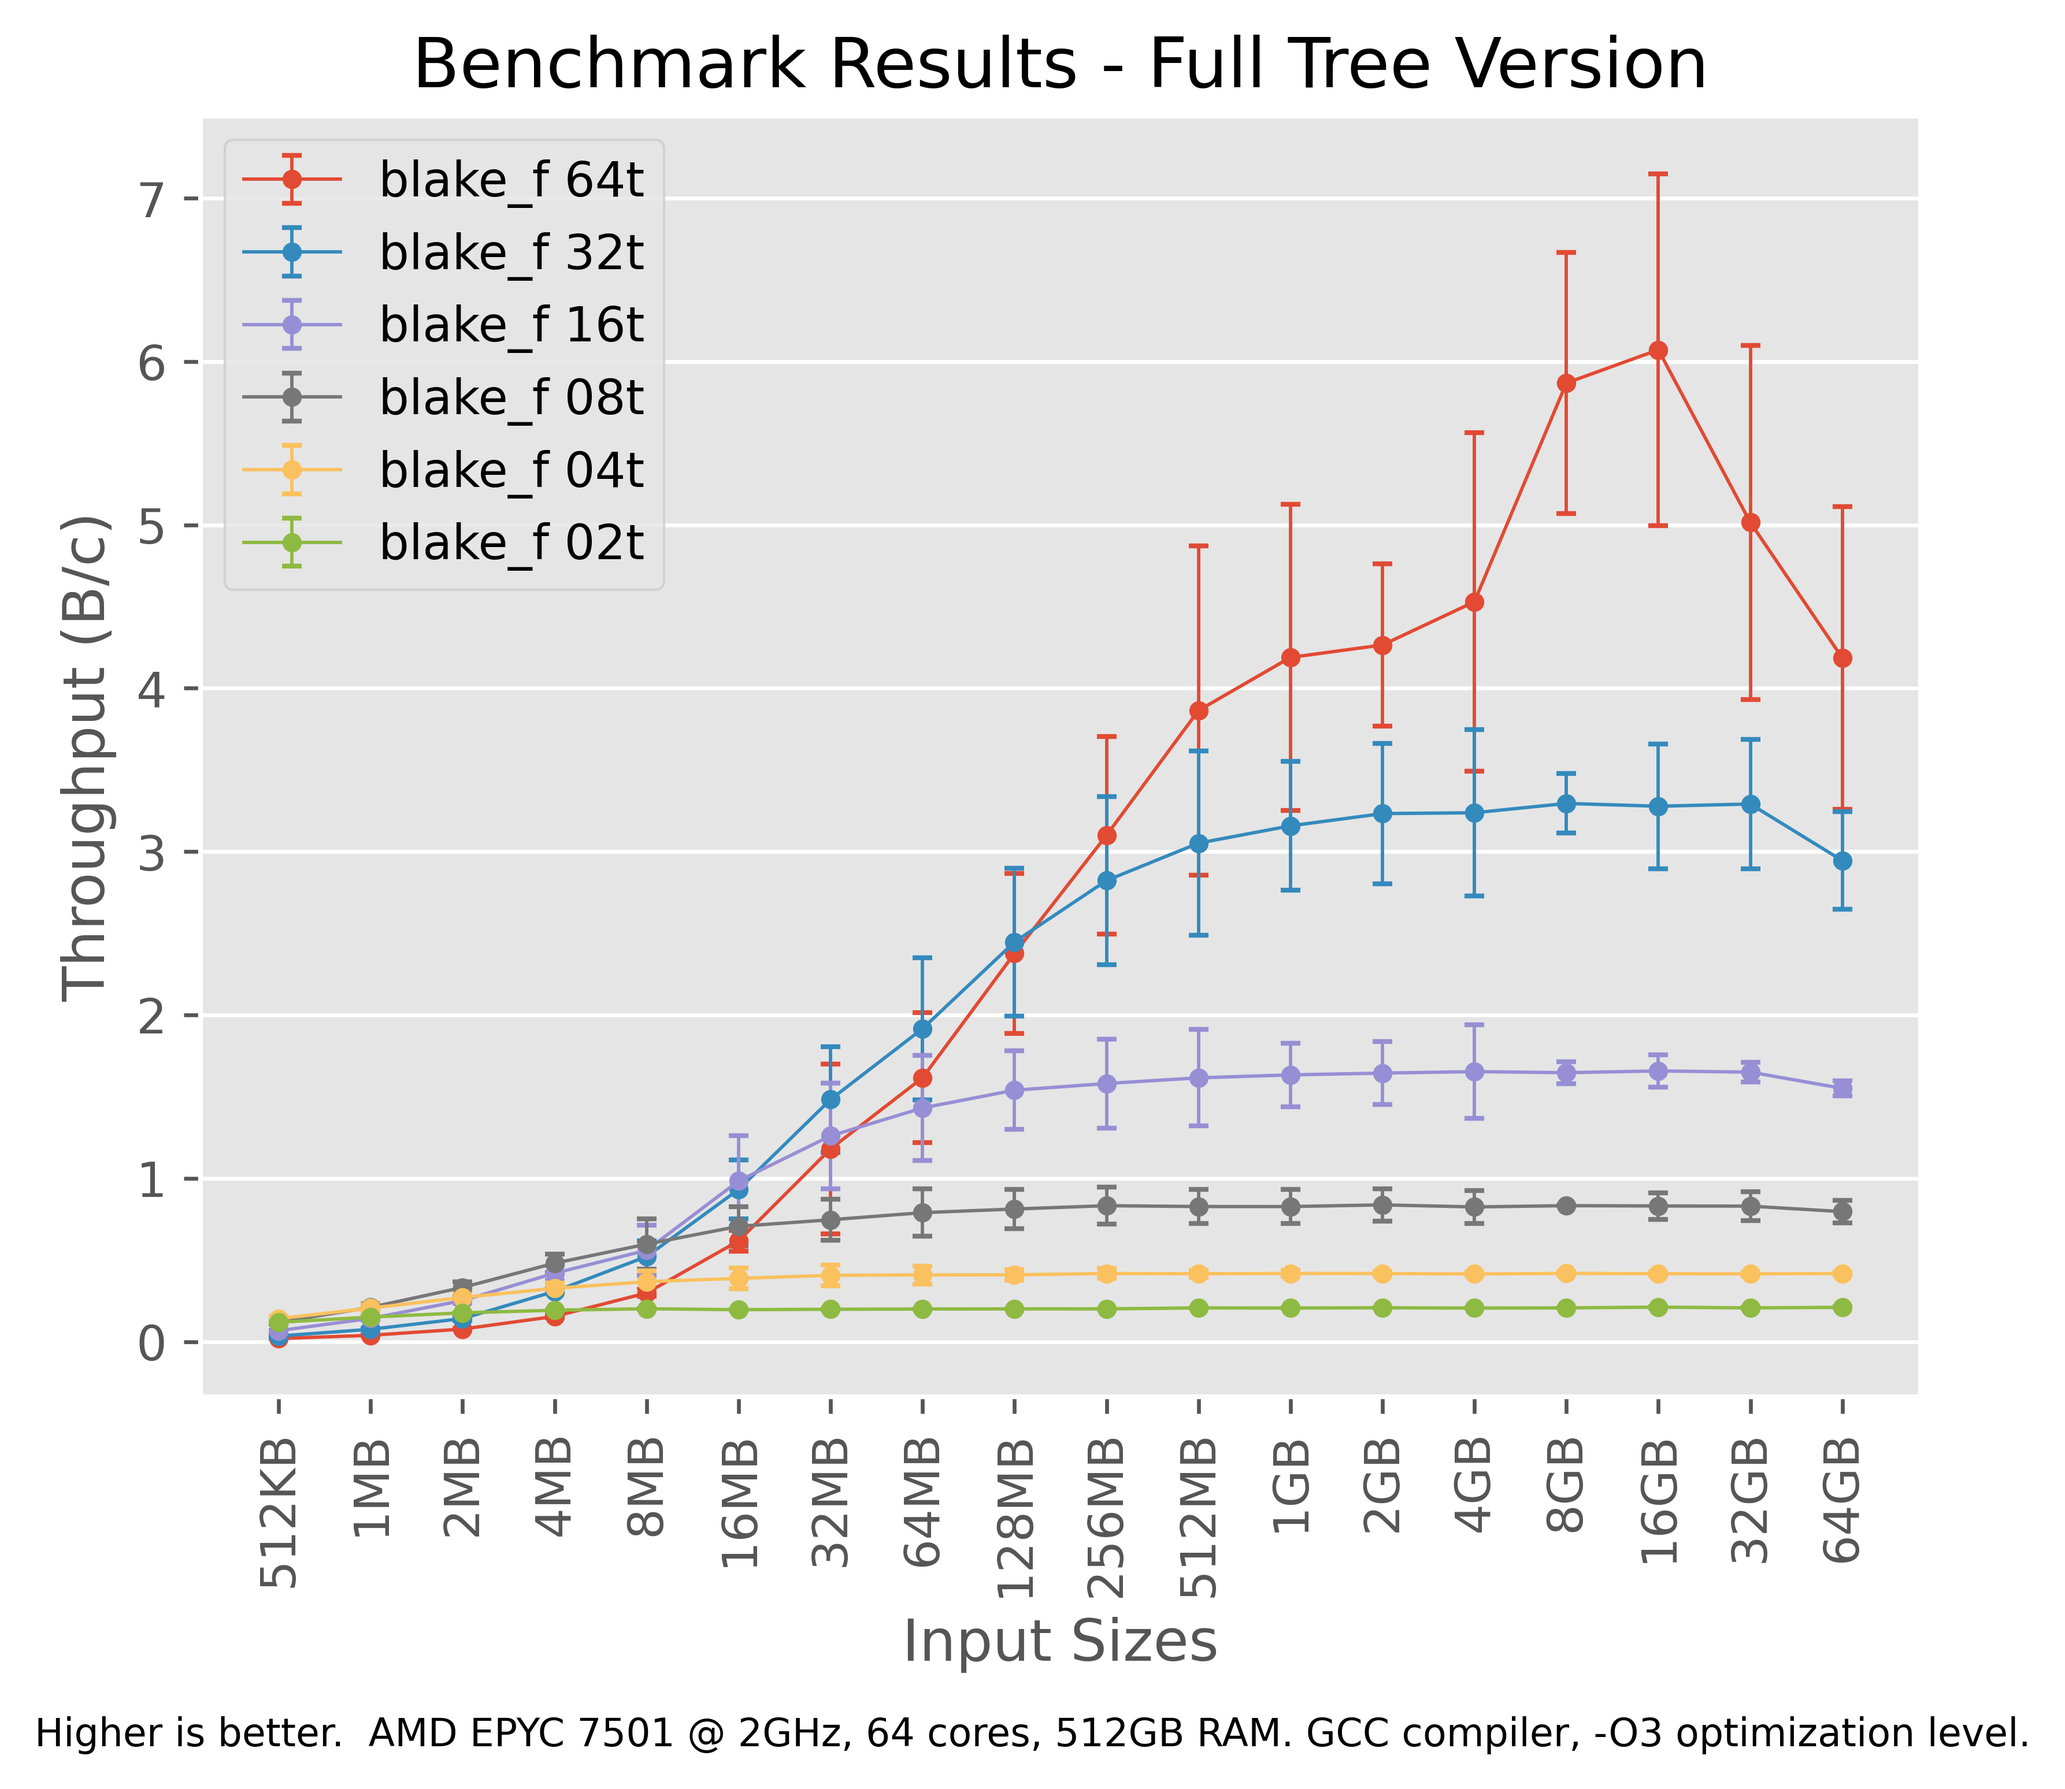
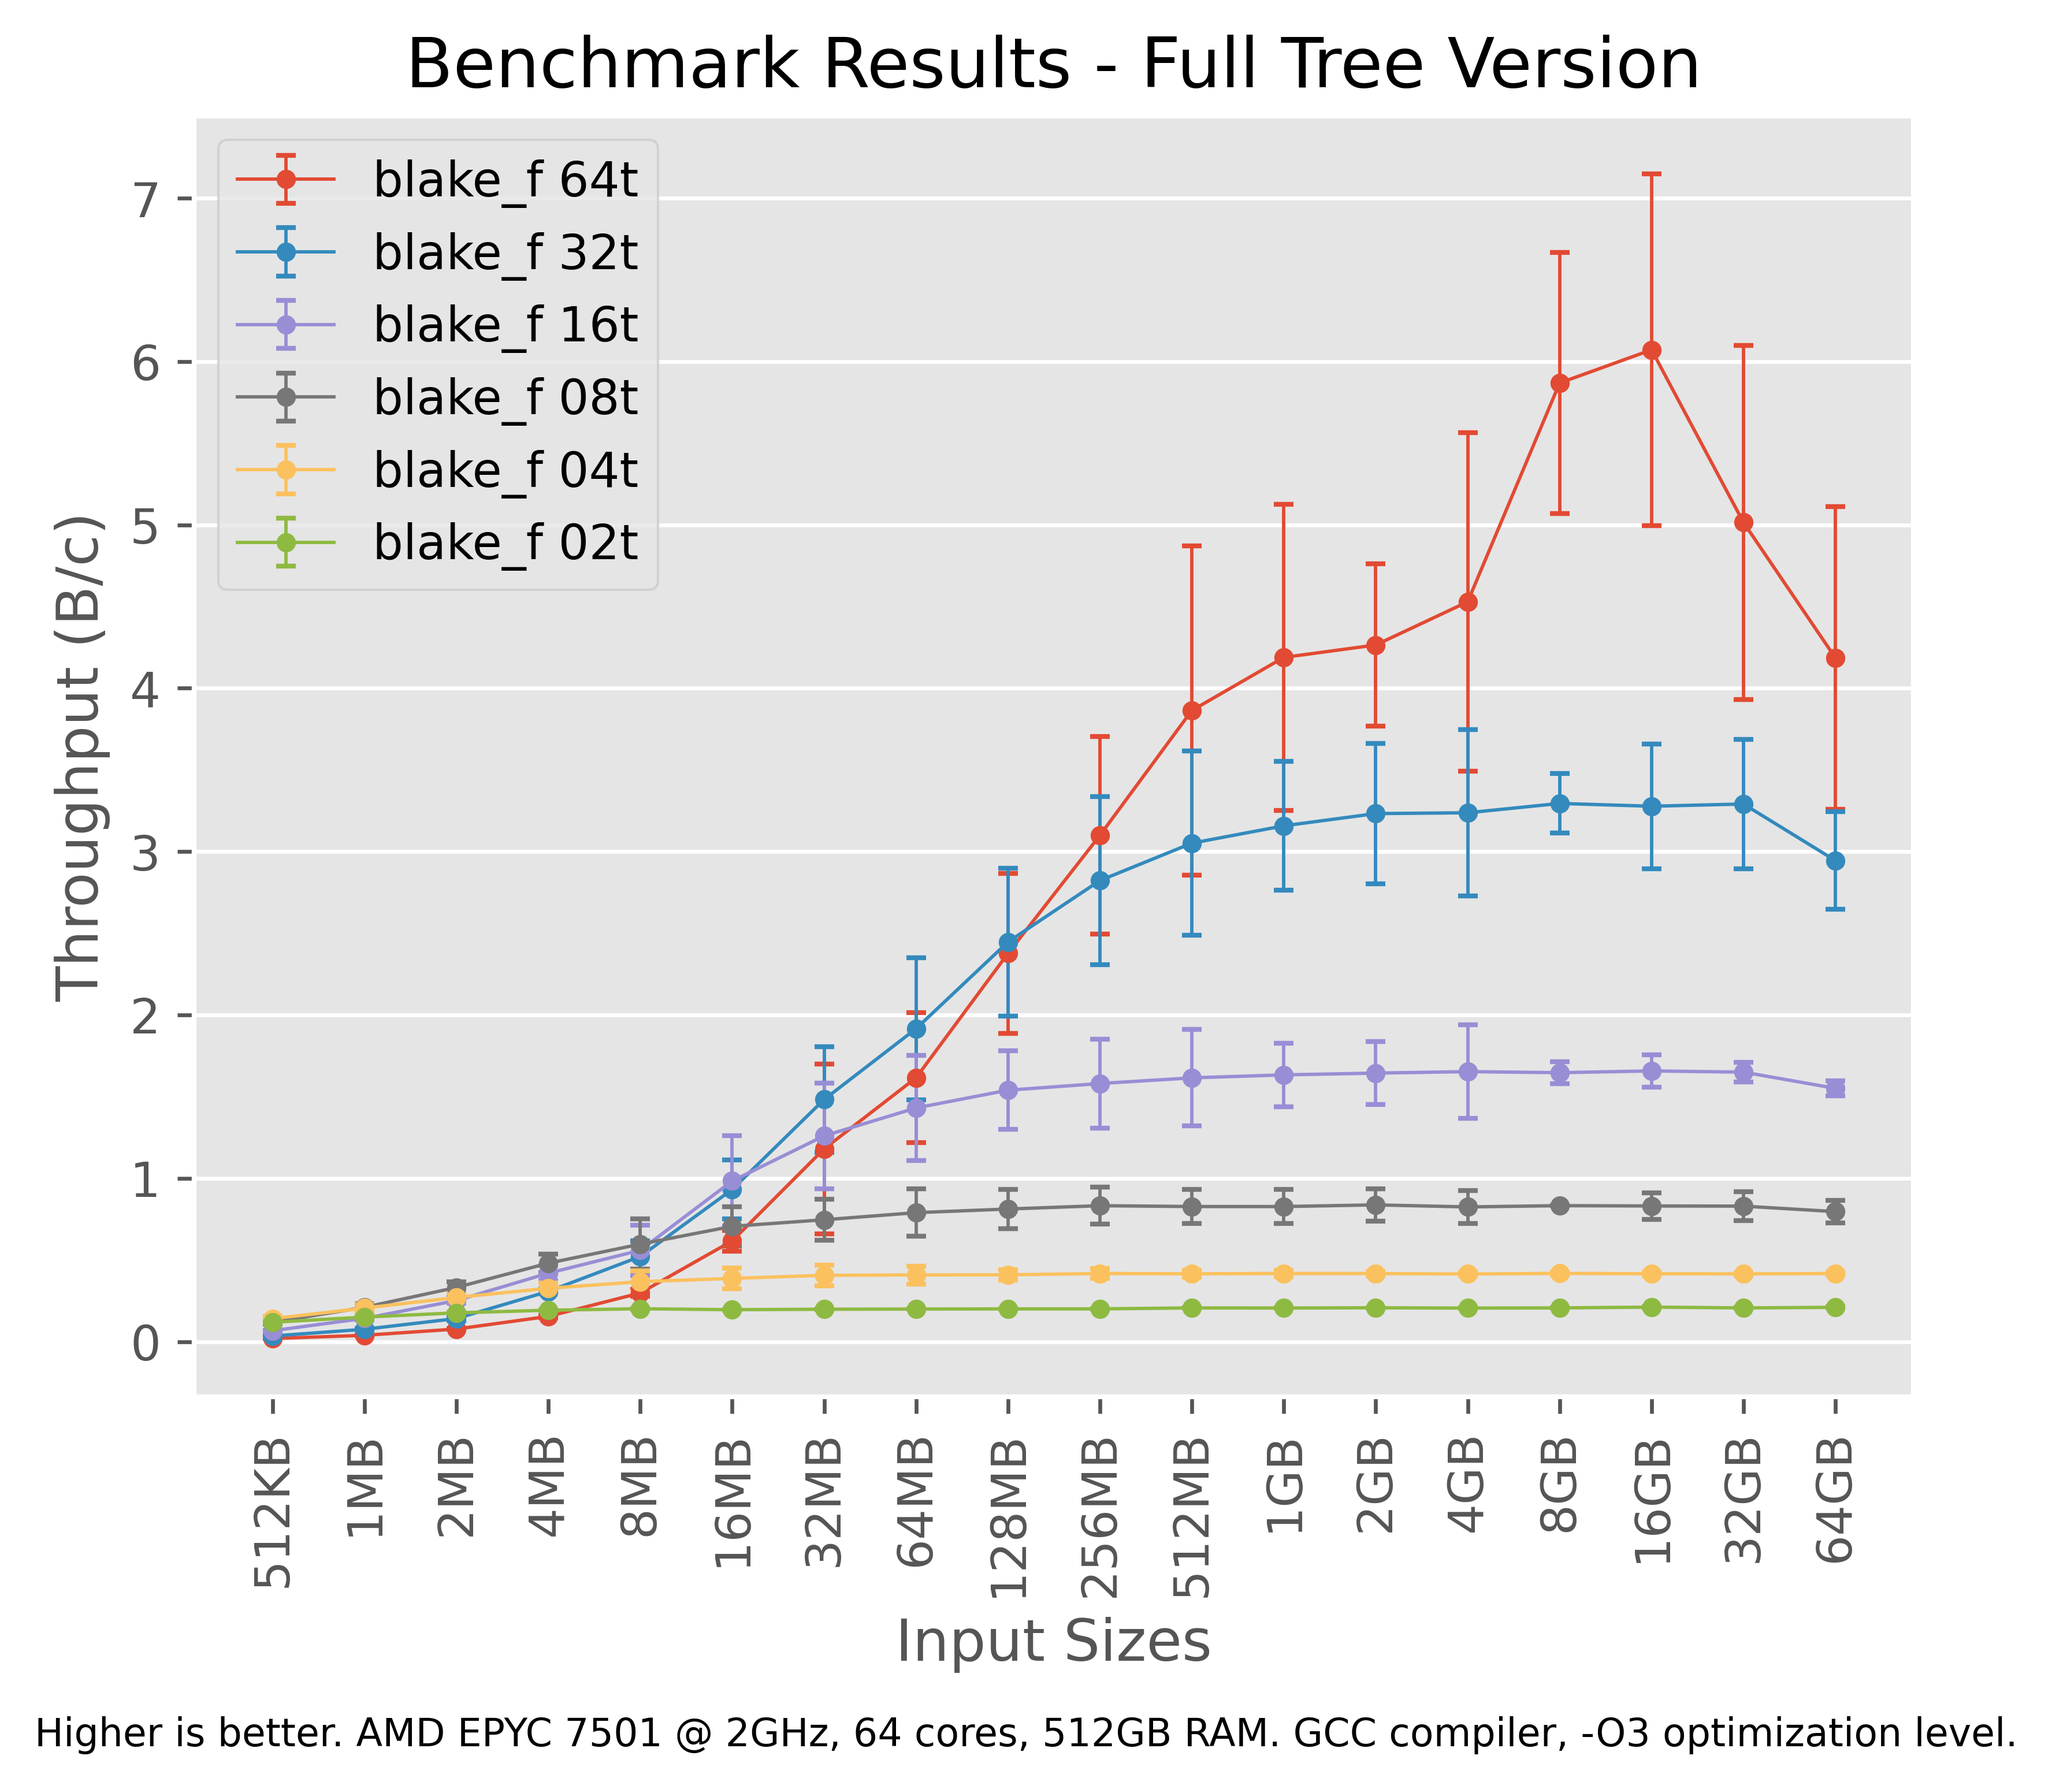
More cleanup before vec

diff --git a/auth/plot_tsc.py b/auth/plot_tsc.py
@@ -12,7 +12,6 @@ def parse_csv(filename: str) -> list[np.ndarray]:
     try:
         data = pd.read_csv(filename, header=None, sep=",")
         np_arrays = [np.array(row)[:-1] for _, row in data.iterrows()]
-        print("np_arrays", len(np_arrays))
         return np_arrays
 
     except Exception as e:
@@ -44,10 +43,8 @@ def grab_input_sizes():
     return input_sizes, raw_input_sizes
 
 
-def plot_data(v: str = 'f'):
+def plot_data(v: str = 'f', skip: int = 9):
 
-    input_sizes, raw_input_sizes = grab_input_sizes()
-    print(raw_input_sizes)
     # iterate over all files in the directory output_data
     to_plot = []
     for filename in sorted(os.listdir("output_data"), reverse=True):
@@ -73,15 +70,14 @@ def plot_data(v: str = 'f'):
             tmp_devs.append(std_dev)
         devs.append(tmp_devs)
         medians.append(tmp_lst)
-    print(len(medians))
-    print(len(devs))
+
     plt.style.use("ggplot")
     plt.figure(figsize=(13, 12))
-    fig, ax = plt.subplots(dpi=600)
-    skip = 9
+    _, ax = plt.subplots(dpi=600)
+
     for k, (func_name, n_th) in enumerate(to_plot):
-        print("Output", func_name, n_th)
-        print(len(medians[k]), len(devs[k]), len(input_sizes))
+        print("plotting", func_name, n_th)
+        # print(len(medians[k]), len(devs[k]), len(input_sizes))
         ax.errorbar(
             x=input_sizes[:len(medians[k])][skip:],
             y=medians[k][skip:], yerr=devs[k][skip:],
@@ -91,8 +87,13 @@ def plot_data(v: str = 'f'):
             # barsabove=True,
             capsize=2, fmt='o', markersize=3)
 
-    ax.set(xlabel='Input Sizes', ylabel='Throughput (B/c)',
-           title='Benchmark Results - Full Tree Version')
+    if v == 'f':
+        ax.set(xlabel='Input Sizes', ylabel='Throughput (B/c)',
+               title='Benchmark Results - Full Tree Version')
+    else:
+        ax.set(xlabel='Input Sizes', ylabel='Throughput (B/c)',
+               title='Benchmark Results - Stack Version')
+
     plt.legend(facecolor="white")
     plt.grid(axis="x", color="#E5E5E5")
     plt.xscale("log")
@@ -104,14 +105,20 @@ def plot_data(v: str = 'f'):
     ax.legend()
     if not os.path.exists("figures"):
         os.makedirs("figures")
-    txt = "Higher is better.  AMD EPYC 7501 @ 2GHz, 64 cores, 512GB RAM. GCC compiler, -O3 optimization level."
-    plt.figtext(0.5, -0.1, txt, wrap=True, horizontalalignment='center', fontsize=8)
+    txt = "Higher is better. AMD EPYC 7501 @ 2GHz, 64 cores, 512GB RAM. GCC compiler, -O3 optimization level."
+    plt.figtext(0.5, -0.1, txt, wrap=True,
+                horizontalalignment='center', fontsize=8)
 
-    filename: str = "figures/plot_cumulative_f.png"
+    filename: str = f"figures/plot_cumulative_{v}.png"
 
     plt.savefig(filename, bbox_inches="tight", pad_inches=0.1)
+    print(f"Plot saved to {filename}")
+    print("---------------")
 
 
+input_sizes, raw_input_sizes = grab_input_sizes()
 if __name__ == "__main__":
+    pprint(raw_input_sizes)
+    print("---------------")
     plot_data(v='f')
-    plot_data(v='d')
+    plot_data(v='d', skip=0)

diff --git a/auth/src/benchmark.c b/auth/src/benchmark.c
@@ -33,7 +33,7 @@ void handle_error(int retval) {
     printf("PAPI error %d: %s\n", retval, PAPI_strerror(retval));
     exit(1);
 }
-#else
+#elif defined(__x86_64__)
 #include <x86intrin.h>
 unsigned int ui;
 uint64_t     start, end;
@@ -46,6 +46,10 @@ uint64_t     start, end;
         fprintf(file, "%llu,", (long long)end - start);                                            \
         fflush(file);                                                                              \
     } while (0)
+#else
+#define PAPI_REGION_BEGIN(name) (void)0;
+#define PAPI_REGION_END(name)   (void)0;
+
 #endif
 
 // ------ GLOBAL VARIABLES ------
@@ -54,7 +58,6 @@ uint8_t     key[BLAKE3_KEY_LEN] = {0};
 bool        has_key             = false;
 const char *derive_key_context  = NULL;
 // ------------------------------
-
 
 void run_benchmark_sha(char *filename) {
     FILE *file = fopen(filename, "rb");
@@ -104,7 +107,6 @@ void run_benchmark_d(char *filename) {
 }
 
 int main(void) {
-    endianCheckPrint();
     char prefix[] = "input_data/input_";
     char suffix[] = ".txt";
     char sizes[50][10];  // Assuming a maximum of 50 entries with a maximum size of 10 characters
@@ -143,17 +145,22 @@ int main(void) {
     }
 
     // create output directory if not exists
-    system("mkdir -p ../output_data");
+#ifdef __x86_64__
+    system("mkdir -p output_data");
+#endif
 
+    // Run benchmarks
 #ifdef USE_OPENMP
     int tot_num_avail_threads = omp_get_max_threads();
     omp_set_dynamic(0);
-
+    printf("[INFO:] total number of available threads: %d\n", tot_num_avail_threads);
     /* for (int num_threads = 2; num_threads <= tot_num_avail_threads; num_threads <<= 1) {
         char out_filename[50];
         sprintf(out_filename, "output_data/blake_f_%02d.csv", num_threads);
         file = fopen(out_filename, "w");
-        printf("[INFO:] Max number of threads: %d\n", num_threads);
+
+        printf("[INFO:] current number of threads: %d\n", num_threads);
+
         for (size_t size = 0; size < num_sizes; size++) {
             for (int i = 0; i < REPETITIONS; i++) {
                 printf("\r[INFO:] Running f_benchmark for %5s, %2d", sizes[size], i);
@@ -166,12 +173,13 @@ int main(void) {
         }
         fclose(file);
     } */
-    // goto skip;
 
     for (int num_threads = 2; num_threads <= tot_num_avail_threads; num_threads <<= 1) {
         char out_filename[50];
         sprintf(out_filename, "output_data/blake_d_%02d.csv", num_threads);
         file = fopen(out_filename, "w");
+
+        printf("[INFO:] current number of threads: %d\n", num_threads);
 
         for (size_t size = 0; size < num_sizes; size++) {
             for (int i = 0; i < REPETITIONS; i++) {
@@ -235,9 +243,7 @@ int main(void) {
     }
     fclose(file);
 #endif
-// #ifdef USE_OPENMP
-// skip:
-// #endif
+
     for (size_t i = 0; i < num_sizes; i++) free(filename[i]);
     free(filename);
     return 0;
